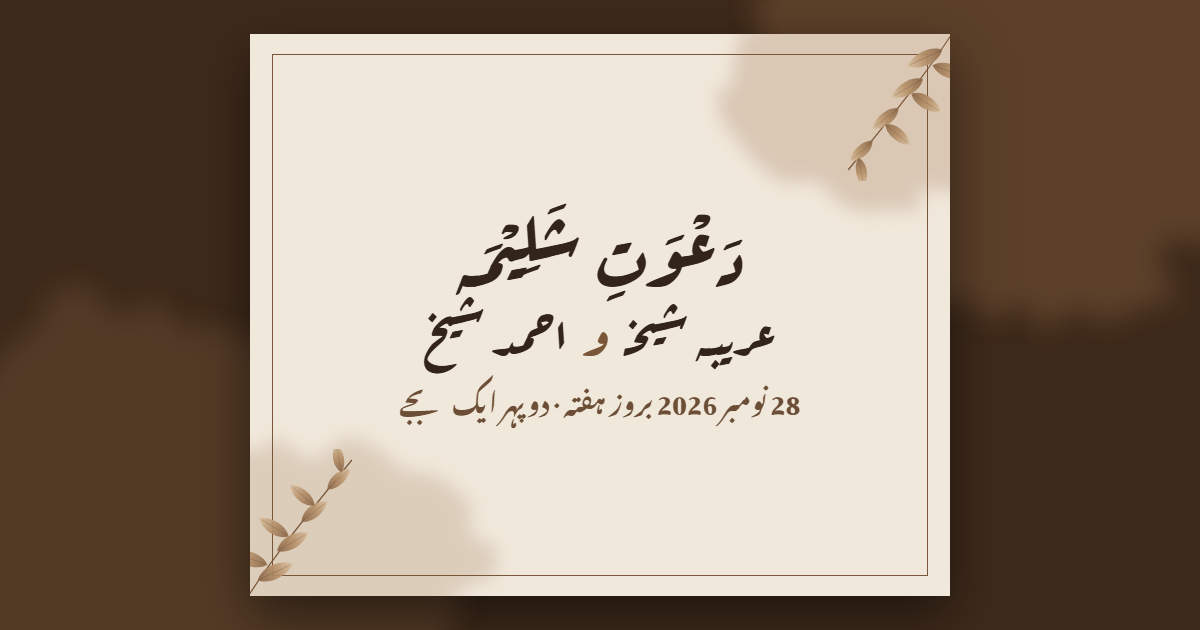
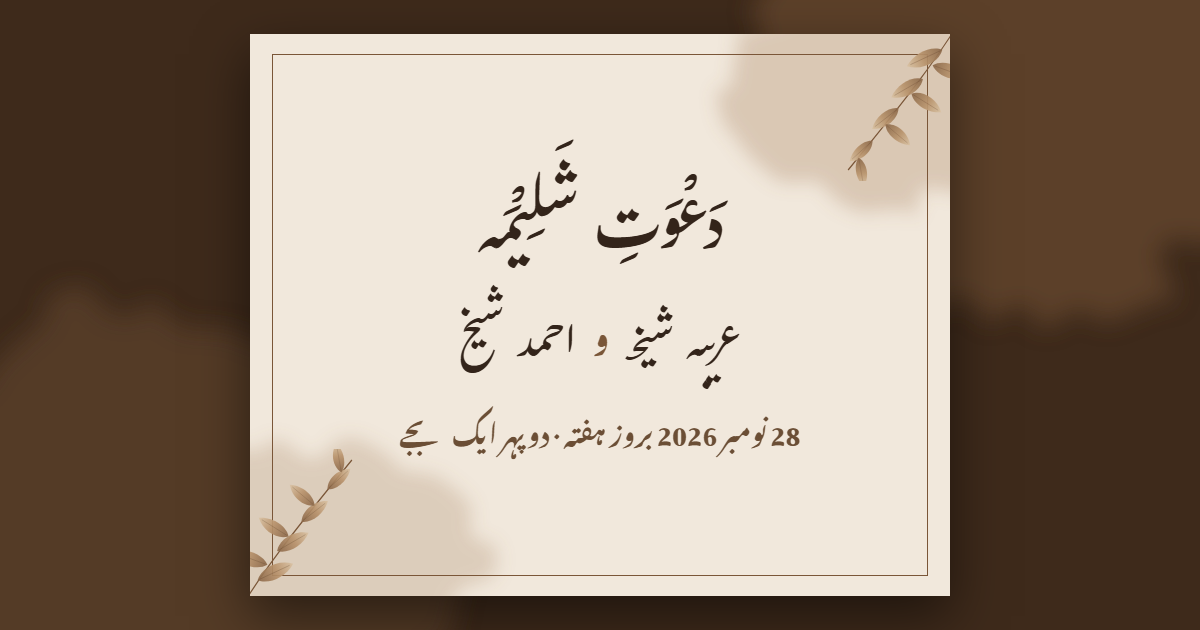
Bride card: Gulzar calligraphy, no overlaps, centred cover; remove countdown word

Changed region(s): [[0.3392, 0.2111, 0.6783, 0.7238]]

diff --git a/bride/index.html b/bride/index.html
@@ -16,7 +16,7 @@
 <meta name="theme-color" content="#3e2a1b">
 <link rel="preconnect" href="https://fonts.googleapis.com">
 <link rel="preconnect" href="https://fonts.gstatic.com" crossorigin>
-<link href="https://fonts.googleapis.com/css2?family=Aref+Ruqaa:wght@400;700&family=Amiri:wght@400;700&family=Noto+Nastaliq+Urdu:wght@500;700&display=swap" rel="stylesheet">
+<link href="https://fonts.googleapis.com/css2?family=Gulzar&family=Amiri:wght@400;700&family=Noto+Nastaliq+Urdu:wght@500;700&display=swap" rel="stylesheet">
 <style>
 :root{
   --choc:#3e2a1b; --choc-2:#5a3e27; --paper:#f1e8dc; --ink:#33241a; --sepia:#6b4e35; --line:#7a5638; --leaf:#a47e58; --cream:#f5ead9;
@@ -24,13 +24,14 @@
 }
 *{box-sizing:border-box;margin:0;padding:0}
 html{background:var(--choc);overflow:hidden;height:100%}
-html.open{overflow:visible;height:auto}
+html,body{overflow-x:clip;max-width:100%}
+html.open{overflow-y:visible;overflow-x:clip;height:auto}
 body{background:var(--choc);color:var(--ink);font-family:"Noto Nastaliq Urdu",serif;font-weight:500;-webkit-font-smoothing:antialiased;overscroll-behavior-y:none}
 .app{max-width:460px;margin:0 auto;position:relative;background:var(--choc) var(--wash-dark) center/cover;min-height:100%;box-shadow:0 0 80px rgba(0,0,0,.5);transform:scale(1.12);filter:blur(6px) brightness(.7);transition:transform 2.4s var(--ease),filter 2s ease}
 body.reveal .app{transform:none;filter:none}
 body.opened .app{transition:none}
 
-.ruqaa{font-family:"Aref Ruqaa",serif;font-weight:700;line-height:1.5}
+.ruqaa{font-family:"Gulzar",serif;font-weight:400;line-height:2.05;padding:4px 0}
 .amiri{font-family:"Amiri",serif}
 
 /* ---------- cover: envelope ---------- */
@@ -46,9 +47,9 @@ body.opening .bism,body.opening .tap{opacity:0;transition:opacity .5s}
 @keyframes bob{50%{transform:translateY(-6px) rotate(.6deg)}}
 body.opening .env-idle{animation:none}
 .env-back{position:absolute;inset:0;border-radius:6px;background:linear-gradient(160deg,#cdb79b,#b89c7c);box-shadow:0 26px 50px rgba(0,0,0,.45)}
-.letter{position:absolute;left:6%;right:6%;top:7%;height:86%;z-index:2;border-radius:3px;background:var(--paper) var(--wash) center/cover;box-shadow:0 2px 8px rgba(0,0,0,.18);display:flex;flex-direction:column;align-items:center;justify-content:flex-start;padding-top:9%;text-align:center;transition:transform 1.1s var(--ease)}
-.letter .t{font-family:"Aref Ruqaa",serif;font-weight:700;font-size:clamp(26px,8vw,34px);color:var(--ink)}
-.letter .s{font-size:13px;color:var(--sepia);margin-top:-2px}
+.letter{position:absolute;left:6%;right:6%;top:7%;height:86%;z-index:2;border-radius:3px;background:var(--paper) var(--wash) center/cover;box-shadow:0 2px 8px rgba(0,0,0,.18);display:flex;flex-direction:column;align-items:center;justify-content:flex-start;padding-top:5%;text-align:center;transition:transform 1.1s var(--ease)}
+.letter .t{font-family:"Gulzar",serif;font-weight:400;font-size:clamp(24px,7.4vw,32px);line-height:2;color:var(--ink)}
+.letter .s{font-size:12px;line-height:2.4;color:var(--sepia)}
 body.opening .letter{transform:translateY(-62%);transition-delay:1s}
 body.reveal .letter{transform:translateY(-62%) scale(1.25);opacity:0;transition:transform 1s ease,opacity .8s ease}
 .env-front{position:absolute;inset:0;z-index:3;border-radius:6px;clip-path:polygon(0 0,50% 54%,100% 0,100% 100%,0 100%);background:linear-gradient(180deg,#e6d6c0,#d8c3a6)}
@@ -57,11 +58,11 @@ body.reveal .letter{transform:translateY(-62%) scale(1.25);opacity:0;transition:
 .flap i{position:absolute;inset:0;clip-path:polygon(0 0,100% 0,50% 100%);background:linear-gradient(180deg,#dcc8ad,#cbb293);border-radius:6px 6px 0 0}
 body.opening .flap{transform:rotateX(178deg);z-index:1}
 .seal{position:absolute;left:50%;top:60%;width:74px;height:74px;margin:-37px 0 0 -37px;z-index:5;border-radius:48% 52% 50% 46%/52% 46% 54% 48%;background:radial-gradient(circle at 38% 32%,#8d5634,#5e321a 60%,#43220f);box-shadow:0 4px 10px rgba(0,0,0,.4),inset 0 0 0 5px rgba(0,0,0,.12),inset 0 0 0 7px rgba(255,220,180,.12);display:grid;place-items:center;transition:transform .7s var(--ease),opacity .5s ease}
-.seal span{font-family:"Aref Ruqaa",serif;font-weight:700;font-size:30px;color:rgba(255,226,196,.75);text-shadow:0 1px 0 rgba(0,0,0,.35);margin-top:4px}
+.seal span{font-family:"Gulzar",serif;font-weight:400;font-size:30px;line-height:1;color:rgba(255,226,196,.75);text-shadow:0 1px 0 rgba(0,0,0,.35);margin-top:4px}
 .seal::after{content:"";position:absolute;inset:-14px;border-radius:50%;border:1px solid rgba(245,234,217,.35);animation:ring 2.6s ease-out infinite}
 @keyframes ring{0%{transform:scale(.8);opacity:.9}100%{transform:scale(1.45);opacity:0}}
 body.opening .seal{transform:scale(1.5) rotate(25deg);opacity:0}
-.tap{font-size:16px;color:var(--cream);border:1px solid rgba(245,234,217,.45);padding:6px 22px 12px;border-radius:40px;background:rgba(40,26,16,.55);cursor:pointer;animation:pulse 2.4s ease-in-out infinite;font-family:inherit}
+.tap{font-size:16px;line-height:2.2;color:var(--cream);border:1px solid rgba(245,234,217,.45);padding:2px 22px 6px;border-radius:40px;background:rgba(40,26,16,.55);cursor:pointer;animation:pulse 2.4s ease-in-out infinite;font-family:inherit}
 @keyframes pulse{0%,100%{box-shadow:0 0 0 0 rgba(245,234,217,.3)}50%{box-shadow:0 0 0 12px rgba(245,234,217,0)}}
 
 #dust{position:fixed;left:0;top:0;pointer-events:none;z-index:25}
@@ -69,7 +70,7 @@ body.opening .seal{transform:scale(1.5) rotate(25deg);opacity:0}
 
 /* ---------- pages ---------- */
 .sheet{position:relative;min-height:100svh;padding:44px 20px;display:flex;align-items:center;justify-content:center;perspective:1200px}
-.paper{position:relative;width:100%;min-height:calc(100svh - 88px);background:var(--paper) var(--wash) center/cover;border-radius:3px;box-shadow:0 30px 60px rgba(0,0,0,.45);padding:70px 30px;display:flex;flex-direction:column;align-items:center;justify-content:center;text-align:center;overflow:hidden;
+.paper{position:relative;width:100%;min-height:calc(100svh - 88px);background:var(--paper) var(--wash) center/cover;border-radius:3px;box-shadow:0 30px 60px rgba(0,0,0,.45);padding:84px 28px 80px;display:flex;flex-direction:column;align-items:center;justify-content:center;text-align:center;overflow:hidden;
   transform:translateY(70px) rotateX(10deg) scale(.93);opacity:.25;transition:transform 1.3s var(--ease),opacity 1s ease}
 .in .paper{transform:none;opacity:1}
 .paper::after{content:"";position:absolute;top:-20%;bottom:-20%;width:45%;left:0;background:linear-gradient(105deg,transparent,rgba(255,248,235,.8),transparent);transform:translateX(330%) skewX(-12deg);pointer-events:none}
@@ -80,7 +81,7 @@ body.opening .seal{transform:scale(1.5) rotate(25deg);opacity:0}
 .frame path{fill:none;stroke:var(--line);stroke-width:1.5;stroke-dasharray:1;stroke-dashoffset:1;transition:stroke-dashoffset 2.6s cubic-bezier(.6,.05,.25,1) .4s}
 .in .frame path{stroke-dashoffset:0}
 
-.branch{position:absolute;width:150px;height:190px;pointer-events:none;overflow:visible;animation:sway 6s ease-in-out infinite}
+.branch{position:absolute;width:118px;height:150px;pointer-events:none;overflow:visible;animation:sway 6s ease-in-out infinite}
 .branch.tr{top:-14px;right:-18px;transform:rotate(180deg);transform-origin:50% 50%}
 .branch.bl{bottom:-14px;left:-18px;transform-origin:0 100%;animation-delay:-3s}
 @keyframes sway{0%,100%{rotate:0deg}50%{rotate:2.2deg}}
@@ -89,7 +90,7 @@ body.opening .seal{transform:scale(1.5) rotate(25deg);opacity:0}
 .in .branch .st{stroke-dashoffset:0}
 .in .branch .lf{transform:scale(1)}
 
-.divider{width:150px;height:22px;margin:16px auto;display:block;overflow:visible}
+.divider{width:150px;height:22px;margin:8px auto;display:block;overflow:visible}
 .divider .dl{stroke:var(--line);stroke-width:1;stroke-dasharray:60;stroke-dashoffset:60;transition:stroke-dashoffset 1.2s ease .5s}
 .divider .dleaf{transform-box:fill-box;transform-origin:center;transform:scale(0) rotate(-40deg);transition:transform .9s var(--ease) .3s}
 .in .divider .dl{stroke-dashoffset:0}
@@ -101,29 +102,29 @@ body.opening .seal{transform:scale(1.5) rotate(25deg);opacity:0}
 @keyframes ink{to{-webkit-mask-position:100% 0;mask-position:100% 0}}
 
 /* page 1: invitation */
-.title{font-size:clamp(50px,14.5vw,64px);color:var(--ink)}
-.host{font-size:clamp(22px,6.5vw,29px);white-space:nowrap;font-weight:700;color:var(--ink);line-height:2.1;margin-top:4px}
-.body{font-size:20px;line-height:2.2;color:var(--sepia)}
-.lbl{font-size:16px;color:var(--sepia);line-height:2}
+.title{font-size:clamp(48px,13.6vw,60px);color:var(--ink)}
+.host{font-size:clamp(21px,6.2vw,27px);white-space:nowrap;font-weight:700;color:var(--ink);line-height:2.5;margin-top:6px}
+.body{font-size:19px;line-height:2.6;color:var(--sepia)}
+.lbl{font-size:16px;color:var(--sepia);line-height:2.4}
 
 /* page 2: names */
-.nm{font-size:clamp(48px,14vw,62px);color:var(--ink);line-height:1.45}
-.parent{font-size:20px;font-weight:700;color:var(--sepia);line-height:2.1}
-.waw{font-size:44px;color:var(--line);line-height:1.2;margin:4px 0}
+.nm{font-size:clamp(44px,12.5vw,56px);color:var(--ink);line-height:2.1}
+.parent{font-size:19px;font-weight:700;color:var(--sepia);line-height:2.5;margin-top:-4px}
+.waw{font-size:40px;color:var(--line);line-height:1.6;margin:6px 0 0}
 
 /* page 3: event */
-.when{font-size:clamp(30px,8.8vw,38px);font-weight:700;line-height:2.1;color:var(--ink)}
+.when{font-size:clamp(32px,9.5vw,40px);line-height:2.1;color:var(--ink)}
 .date-row{display:flex;align-items:center;justify-content:center;gap:14px;margin:6px 0 0}
-.date-row .side{font-size:22px;font-weight:700;color:var(--ink);width:88px;line-height:2.1;border-top:1px solid var(--line);border-bottom:1px solid var(--line);opacity:0;transition:transform 1.1s var(--ease) .6s,opacity 1s ease .6s}
+.date-row .side{font-size:21px;font-weight:700;color:var(--ink);width:88px;line-height:2.4;border-top:1px solid var(--line);border-bottom:1px solid var(--line);opacity:0;transition:transform 1.1s var(--ease) .6s,opacity 1s ease .6s}
 .date-row .side:first-child{transform:translateX(30px)}.date-row .side:last-child{transform:translateX(-30px)}
 .date-row .side.num{font-family:"Amiri",serif;font-size:24px;line-height:1.9}
 .in .date-row .side{transform:none;opacity:1}
 .date-row .day{font-family:"Amiri",serif;font-weight:700;font-size:86px;line-height:1.1;color:var(--ink);display:inline-block;transform:scale(.3);opacity:0;transition:transform 1.2s cubic-bezier(.3,1.5,.5,1) .4s,opacity .6s ease .4s}
 .in .date-row .day{transform:none;opacity:1}
-.weekday{font-size:24px;font-weight:700;color:var(--ink);line-height:2.2}
+.weekday{font-size:23px;font-weight:700;color:var(--ink);line-height:2.5}
 .venue{margin-top:6px}
-.venue .vn{font-size:26px;font-weight:700;color:var(--ink);line-height:2.1}
-.venue .va{font-size:19px;color:var(--sepia);line-height:2}
+.venue .vn{font-size:24px;font-weight:700;color:var(--ink);line-height:2.5}
+.venue .va{font-size:18px;color:var(--sepia);line-height:2.4}
 .pin{width:28px;height:28px;margin:0 auto;display:block;color:var(--line);animation:drop 2.2s ease-in-out infinite}
 @keyframes drop{50%{transform:translateY(-6px)}}
 .btns{display:flex;gap:10px;margin-top:18px;flex-wrap:wrap;justify-content:center}
@@ -136,7 +137,7 @@ body.opening .seal{transform:scale(1.5) rotate(25deg);opacity:0}
 .btn svg{width:15px;height:15px;flex:none;margin-top:6px}
 
 /* page 4: countdown */
-.cd-h{font-size:clamp(30px,9vw,40px);font-weight:700;line-height:2.1;color:var(--ink)}
+.cd-h{font-size:clamp(30px,8.6vw,38px);white-space:nowrap;line-height:2.1;color:var(--ink)}
 .count{display:grid;grid-template-columns:repeat(4,1fr);gap:8px;width:100%;margin-top:18px}
 .count div{border:1px solid var(--line);border-radius:2px;padding:10px 6px 4px;background:rgba(255,252,246,.55);overflow:hidden;opacity:0;transform:translateY(24px) rotateX(-60deg);transition:transform .9s var(--ease),opacity .8s ease}
 .in .count div{opacity:1;transform:none}
@@ -144,15 +145,15 @@ body.opening .seal{transform:scale(1.5) rotate(25deg);opacity:0}
 .count b{display:block;font-family:"Amiri",serif;font-size:38px;font-weight:700;line-height:1.2;color:var(--ink)}
 .count b.flip{animation:flip .55s var(--ease)}
 @keyframes flip{from{transform:translateY(-70%);opacity:0;filter:blur(2px)}}
-.count small{font-size:15px;font-weight:700;color:var(--sepia);line-height:2}
+.count small{font-size:14px;font-weight:700;color:var(--sepia);line-height:2.5}
 
 /* page 5: closing */
 .closing{overflow:hidden;align-items:center}
 .closing .inner{text-align:center;color:var(--cream);padding:40px 6px;position:relative;z-index:2;width:100%}
 .closing .arabic{font-family:"Amiri",serif;font-size:29px;line-height:1.9;color:#f3e3c8}
-.closing .tr{font-size:18px;color:#e6d5bb;line-height:2.2;margin-top:6px}
-.closing .welcome{margin-top:30px;font-size:19px;font-weight:700;color:#e9d9bf;line-height:2}
-.closing .fam{font-size:clamp(44px,13vw,56px);color:#f5ead9;line-height:1.4}
+.closing .tr{font-size:17px;color:#e6d5bb;line-height:2.6;margin-top:6px}
+.closing .welcome{margin-top:24px;font-size:19px;font-weight:700;color:#e9d9bf;line-height:2.5}
+.closing .fam{font-size:clamp(42px,12vw,52px);color:#f5ead9;line-height:2.1}
 .phones{display:flex;flex-direction:column;gap:12px;align-items:center;margin-top:22px}
 .phone{display:inline-flex;align-items:center;gap:10px;direction:ltr;text-decoration:none;color:var(--cream);font-family:"Amiri",serif;font-size:22px;font-weight:700;letter-spacing:.04em;padding:8px 22px;border-radius:40px;border:1px solid rgba(245,234,217,.5);background:rgba(255,240,215,.06);transition:transform .25s ease,background .25s ease}
 .phone:active{transform:scale(.96);background:rgba(255,240,215,.14)}
@@ -250,7 +251,7 @@ body.opened .snd{opacity:1;transform:none;pointer-events:auto}
   <section class="sheet">
     <div class="paper">
       <p class="lbl rv">وقت</p>
-      <p class="when ink" style="--w:.4s">دوپہر ایک بجے</p>
+      <p class="ruqaa when ink" style="--w:.4s">دوپہر ایک بجے</p>
       <svg class="divider rv"></svg>
       <div class="date-row"><span class="side">نومبر</span><span class="day">28</span><span class="side num">2026</span></div>
       <p class="weekday rv">بروز ہفتہ</p>
@@ -272,8 +273,7 @@ body.opened .snd{opacity:1;transform:none;pointer-events:auto}
   <!-- COUNTDOWN -->
   <section class="sheet">
     <div class="paper">
-      <p class="lbl rv">مبارک دن میں باقی</p>
-      <p class="cd-h ink" style="--w:.5s">اُلٹی گنتی</p>
+      <p class="ruqaa cd-h ink" style="--w:.5s">مبارک دن میں باقی</p>
       <div class="count">
         <div><b id="cd-d">00</b><small>دن</small></div>
         <div><b id="cd-h">00</b><small>گھنٹے</small></div>

diff --git a/index.html b/index.html
@@ -26,7 +26,8 @@
 }
 *{box-sizing:border-box;margin:0;padding:0}
 html{background:var(--emerald);overflow:hidden;height:100%}
-html.open{overflow:visible;height:auto}
+html,body{overflow-x:clip;max-width:100%}
+html.open{overflow-y:visible;overflow-x:clip;height:auto}
 body{background:var(--emerald);font-family:"Cormorant Garamond",Georgia,serif;color:var(--ink);font-weight:500;-webkit-font-smoothing:antialiased;overscroll-behavior-y:none}
 .app{max-width:460px;margin:0 auto;position:relative;background:var(--emerald);min-height:100%;box-shadow:0 0 80px rgba(0,0,0,.5);transform:scale(1.14);filter:blur(6px) brightness(.6);transition:transform 2.6s var(--ease),filter 2.2s ease}
 body.opening .app{transform:none;filter:none}
